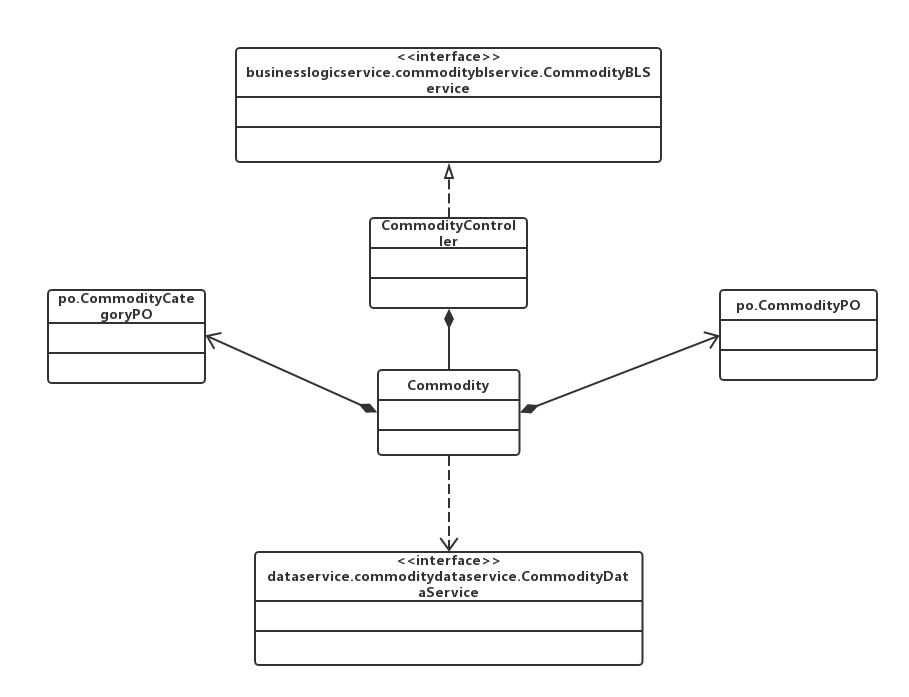
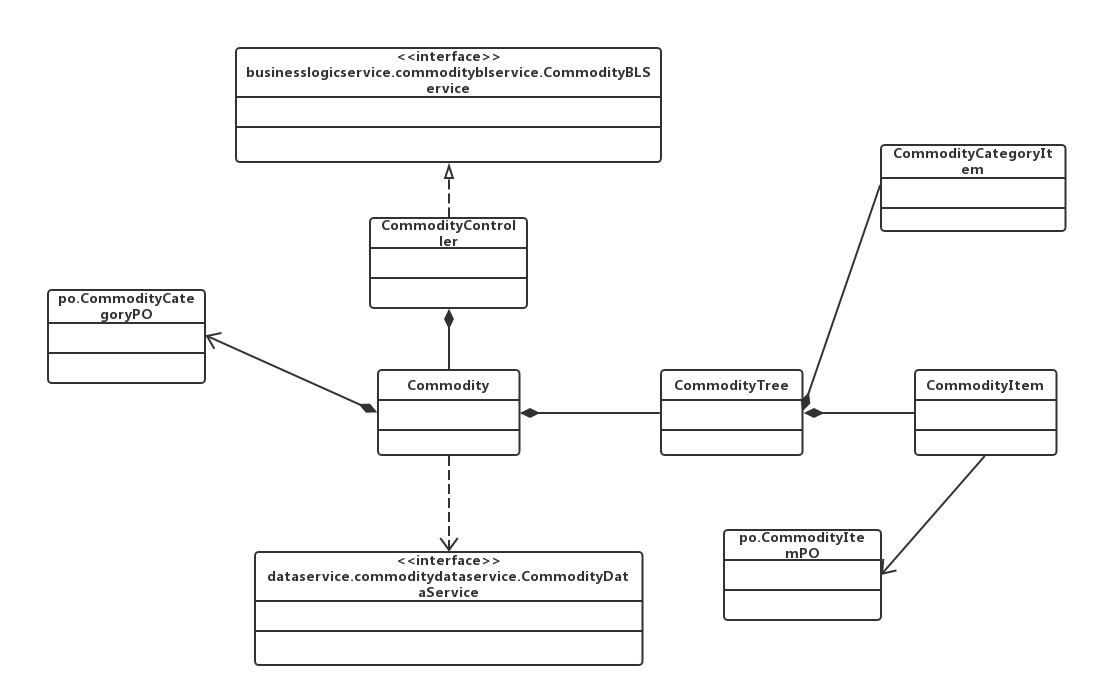
修改商品部分详细设计文档 修改商品部分设计类图

diff --git a/document/库存管理人员详细设计.md b/document/库存管理人员详细设计.md
@@ -16,47 +16,84 @@ commoditybl模块的设计如下图所示：
 
 commoditybl模块各个类的职责如下表所示。
 
-| 类                   | 职责                                       |
-| ------------------- | ---------------------------------------- |
-| CommodityController | 负责对商品、商品管理逻辑操作进行服务                       |
-| Commodity           | 商品、商品管理等与商品有关的领域模型对象，拥有商品、商品分类的所有信息，包括商品的价格、库存、名称、型号、编号等一切属性，以及商品分类的全部属性 |
+| 类                     | 职责                                       |
+| --------------------- | ---------------------------------------- |
+| CommodityController   | 负责对商品、商品管理逻辑操作进行服务                       |
+| Commodity             | 商品、商品管理等与商品有关的领域模型对象，间接拥有商品、商品分类的所有信息，包括商品的价格、库存、名称、型号、编号等一切属性，以及商品分类的全部属性 |
+| CommodityTree         | 全部的商品、商品分类信息的模型。拥有所有商品、商品分类、商品从属关系       |
+| CommodityItem         | 商品的领域模型对象，拥有商品的一切信息。                     |
+| CommodityCategoryItem | 商品分类的领域模型对象，拥有某个分类的一切信息，包括父分类、子分类列表或当前分类下商品列表。 |
 
 
 
 ##### 3. 模块内部类的接口规范
 
-- | 名称                            | 条目   | 详情                                       |
-  | ----------------------------- | ---- | ---------------------------------------- |
-  |                               | 语法   | `public ArrayList<CommodityVO> getCommodityList ()throws RemoteException` |
-  | Commodity.getCommodityList    | 前置条件 | 无                                        |
-  |                               | 后置条件 | 返回所有商品列表                                 |
-  |                               | 语法   | `public ResultMessage addCommodity(CommodityVO newCommodity) throws RemoteException` |
-  | Commodity.addCommodity        | 前置条件 | 输入任意非空名称、非空类型、已经存在的商品分类、大于零的数量以及大于零的成本价格 |
-  |                               | 后置条件 | 增加新的商品，更新持久化存储内容                         |
-  |                               | 语法   | `public ArrayList<CommodityVO> findCommodityByName(String commodityName)throws RemoteException` |
-  | Commodity.findCommodityByName | 前置条件 | 输入任意非空商品名称                               |
-  |                               | 后置条件 | 根据商品名称查找是否存在相应的商品，若存在匹配的商品则返回相应`ArrayList<CommodityVO>`对象，若不存在匹配项则返回`null` |
-  |                               | 语法   | `public CommodityVO findCommodityById(String id)throws RemoteException` |
-  | Commodity.findCommodityById   | 前置条件 | 输入不违反商品id格式的字符串                          |
-  |                               | 后置条件 | 根据商品id查找是否存在相应的商品，如果存在与输入id完全相同的产品，返回一个CommodityVO对象，否则返回null |
-  |                               | 语法   | `public ResultMessage deleteCommodity(String id)throws RemoteException` |
-  | Commodity.deleteCommodity     | 前置条件 | 输入不违反商品id格式的字符串                          |
-  |                               | 后置条件 | 如果存在与输入商品id对应的商品，删除商品。返回ResultMessage    |
-  |                               | 语法   | `public ResultMessage modifyCommodity(CommodityVO commodity)throws RemoteException` |
-  | Commodity.modifyCommodity     | 前置条件 | 输入一个非空的CommodityVO对象                     |
-  |                               | 后置条件 | 返回ResultMessage                          |
+CommodityController类的接口规范：
+
+- 名称
 
 
 - 需要的服务
 
-  | 服务名                                      | 服务              |
-  | ---------------------------------------- | --------------- |
-  | CommodityDataService.getAll()            | 得到目前存储的所有商品数据对象 |
-  | CommodityDataService.find(String id)     | 根据ID得到商品数据对象    |
-  | CommodityDataService.insert(CommodityPO po) | 插入单一持久化对象       |
-  | CommodityDataService.update(CommodityPO po) | 更新单一持久化对象       |
-  | CommodityDataService.delete(CommodityPO po) | 删除单一持久化对象       |
-  | CommodityDataService.findByName(String name) | 根据名称查找多个持久化对象   |
+  | 服务名                                      | 服务           |
+  | ---------------------------------------- | ------------ |
+  | Commodity.getCommodityTree()             | 获取所有商品及其分类信息 |
+  | Commodity.addCommodity(CommodityVO newCommodity) | 增加商品         |
+  | Commodity.findCommodityByName(String commodityName) | 根据名称查找商品     |
+  | Commodity.findCommodityById(String id)   | 根据id查找商品     |
+  | Commodity.deleteCommodity(String id)     | 删除商品         |
+  | Commodity.modifyCommodity(CommodityVO commodity) | 修改商品         |
+  | Commodity.addCategory(CommodityCategoryItemVO newCategory) | 增加分类         |
+  | Commodity.deleteCategory(String id)      | 删除分类         |
+  | Commodity.modifyCategory(CommodityCategoryItemVO newCategory) | 修改分类         |
+
+Commodity类的接口规范：
+
+- | 名称                            | 条目   | 详情                                       |
+  | ----------------------------- | ---- | ---------------------------------------- |
+  |                               | 语法   | `public CommodityTree getCommodityTree ()` |
+  | Commodity.getCommodityTree    | 前置条件 | 无                                        |
+  |                               | 后置条件 | 以商品树状结构返回所有商品、及其商品列表                     |
+  |                               | 语法   | `public ResultMessage addCommodity(CommodityVO newCommodity) ` |
+  | Commodity.addCommodity        | 前置条件 | 输入任意非空名称、非空类型、已经存在的商品分类、大于零的数量以及大于零的成本价格 |
+  |                               | 后置条件 | 增加新的商品，更新持久化存储内容                         |
+  |                               | 语法   | `public ArrayList<CommodityVO> findCommodityByName(String commodityName)` |
+  | Commodity.findCommodityByName | 前置条件 | 输入任意非空商品名称                               |
+  |                               | 后置条件 | 根据商品名称查找是否存在相应的商品，若存在匹配的商品则返回相应`ArrayList<CommodityVO>`对象，若不存在匹配项则返回`null` |
+  |                               | 语法   | `public CommodityVO findCommodityById(String id)` |
+  | Commodity.findCommodityById   | 前置条件 | 输入不违反商品id格式的字符串                          |
+  |                               | 后置条件 | 根据商品id查找是否存在相应的商品，如果存在与输入id完全相同的产品，返回一个CommodityVO对象，否则返回null |
+  |                               | 语法   | `public ResultMessage deleteCommodity(String id)` |
+  | Commodity.deleteCommodity     | 前置条件 | 输入不违反商品id格式的字符串                          |
+  |                               | 后置条件 | 如果存在与输入商品id对应的商品，删除商品。返回ResultMessage    |
+  |                               | 语法   | `public ResultMessage modifyCommodity(CommodityVO commodity)` |
+  | Commodity.modifyCommodity     | 前置条件 | 传入一个非空的CommodityVO对象                     |
+  |                               | 后置条件 | 更新商品，返回ResultMessage                     |
+  |                               | 语法   | `public ResultMessage addCategory(CommodityCategoryItemVO newCategory)` |
+  | Commodity.addCategory         | 前置条件 | 传入一个非空的、且与当前分类下其他分类名称不相同的CommodityCategoryItemVO |
+  |                               | 后置条件 | 更新商品分类，返回ResultMessage                   |
+  |                               | 语法   | `public ResultMessage deleteCategory(String id)` |
+  | Commodity.deleteCategory      | 前置条件 | 传入合法的分类id                                |
+  |                               | 后置条件 | 删除商品分类，返回ResultMessage                   |
+  |                               | 语法   | `public ResultMessage modifyCategory(CommodityCategoryItemVO newCategory)` |
+  | Commodity.modifyCategory      | 前置条件 | 传入合法的CommodityCategoryItemVO             |
+  |                               | 后置条件 | 更新商品分类，返回ResultMessage                   |
+
+
+- 需要的服务
+
+  | 服务名                                      | 服务                 |
+  | ---------------------------------------- | ------------------ |
+  | CommodityDataService.getAllCommodity()   | 得到目前存储的所有商品数据持久化对象 |
+  | CommodityDataService.findById(String id) | 根据ID得到商品数据对象       |
+  | CommodityDataService.add(CommodityPO po) | 插入单一商品持久化对象        |
+  | CommodityDataService.update(CommodityPO po) | 更新单一商品持久化对象        |
+  | CommodityDataService.delete(String id)   | 删除单一商品持久化对象        |
+  | CommodityDataService.findByName(String name) | 根据名称查找多个持久化对象      |
+  | CommodityDataService.getAllCommodityCategory() | 获取所有商品分类持久化对象      |
+  | CommodityDataServcie.add(CommodityCategoryPO po) | 插入单一商品分类持久化对象      |
+  | CommodityDataService.update(CommodityCategoryPO po) | 更新单一商品分类持久化对象      |
+  | CommodityDataServcie.delete(String id)   | 删除单一商品分类持久化对象      |
 
 ##### 
 
